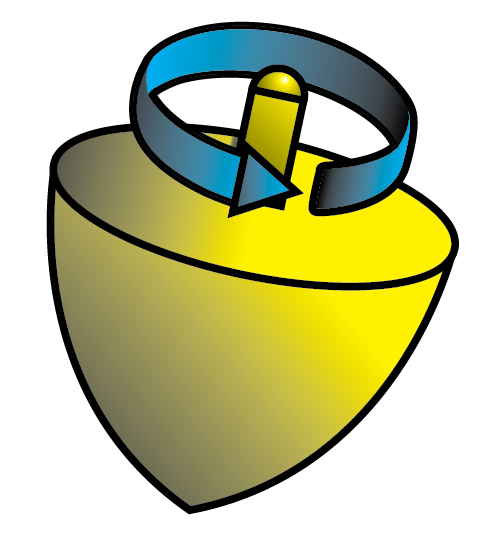
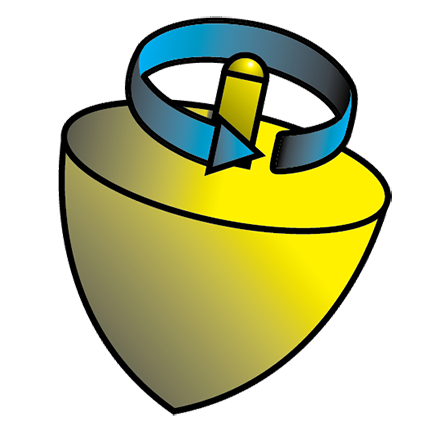
makes shadow around dial persist in active state, moves dial image down a few pixels on active instead

diff --git a/public/css/tablet-palette.css b/public/css/tablet-palette.css
@@ -70,6 +70,7 @@ li.pan{
 }
 
 
+/*
 .shadow{
     position:relative;
     width:80%;
@@ -79,11 +80,14 @@ li.pan{
     border-radius:50%;
     box-shadow: 0 0 5px rgba(0,0,0,0.5);
 }
+*/
 
 
+/*
 .shadow:active{
-    box-shadow: none;
+    
 }
+*/
 
 .shadow-circle {
     position: relative;
@@ -95,56 +99,48 @@ li.pan{
     box-shadow: 0px 0px 1px 3px rgba(0,0,0,1);
     background-repeat: no-repeat;
     background-position: center;
-    z-index:9985;
-}
-
-
-.shadow-circle:active {
-    box-shadow: none;
+    background-size:95%;
+/*    z-index:9985;*/
 }
 
 .spin {
  background-image: url("../images/spin.png");
- background-size: 80%;
 }
 
 
 .orbit {
  background-image: url("../images/orbit.png");
- background-size: 100%;
 }
 
 
 .bounce {
  background-image: url("../images/bounce.png");
- background-size: 90%;
 }
 
 .collide {
  background-image: url("../images/collide.png");
- background-size: 100%;
 }
 
 
 .roam{
  background-image: url("../images/roam.png");
- background-size: 88%;
 }
 
 
 .dive-surface {
  background-image: url("../images/dive-surface.png");
- background-size: 100%;
 }
 
 .define-a-path {
  background-image: url("../images/define-a-path.png");
- background-size: 90%;
 }
 
 .opacity{
-    background-image: url("../images/eye.png");
-    background-size: 100%;
+  background-image: url("../images/eye.png");
+}
+
+.shadow-circle:active {
+  background-position:center bottom; 
 }
 
 /* -- Colorwheel --- */

diff --git a/public/js/colorwheel.js b/public/js/colorwheel.js
@@ -361,13 +361,13 @@ Raphael.colorwheel = function(target, color_wheel_size, no_segments){
 
     cw.onchange(function(color){
         var rawColor = cw.color(),
-            rColor = Math.round(rawColor.r),
-            gColor = Math.round(rawColor.g),
-            bColor = Math.round(rawColor.b),
+            rColor = Math.round(rawColor.r/255),
+            gColor = Math.round(rawColor.g/255),
+            bColor = Math.round(rawColor.b/255),
             thisColor = rColor + ", " + gColor + ", " + bColor;
         console.log("rgb(" + thisColor + ")");
 
-        if (g_selectedModel) g_selectedModel.color.setValueDirect(255/rColor, 255/gColor, 255/bColor, 1);
+        if (g_selectedModel) g_selectedModel.color.setValueDirect(rColor, gColor, bColor, 1);
     });
 
 });
